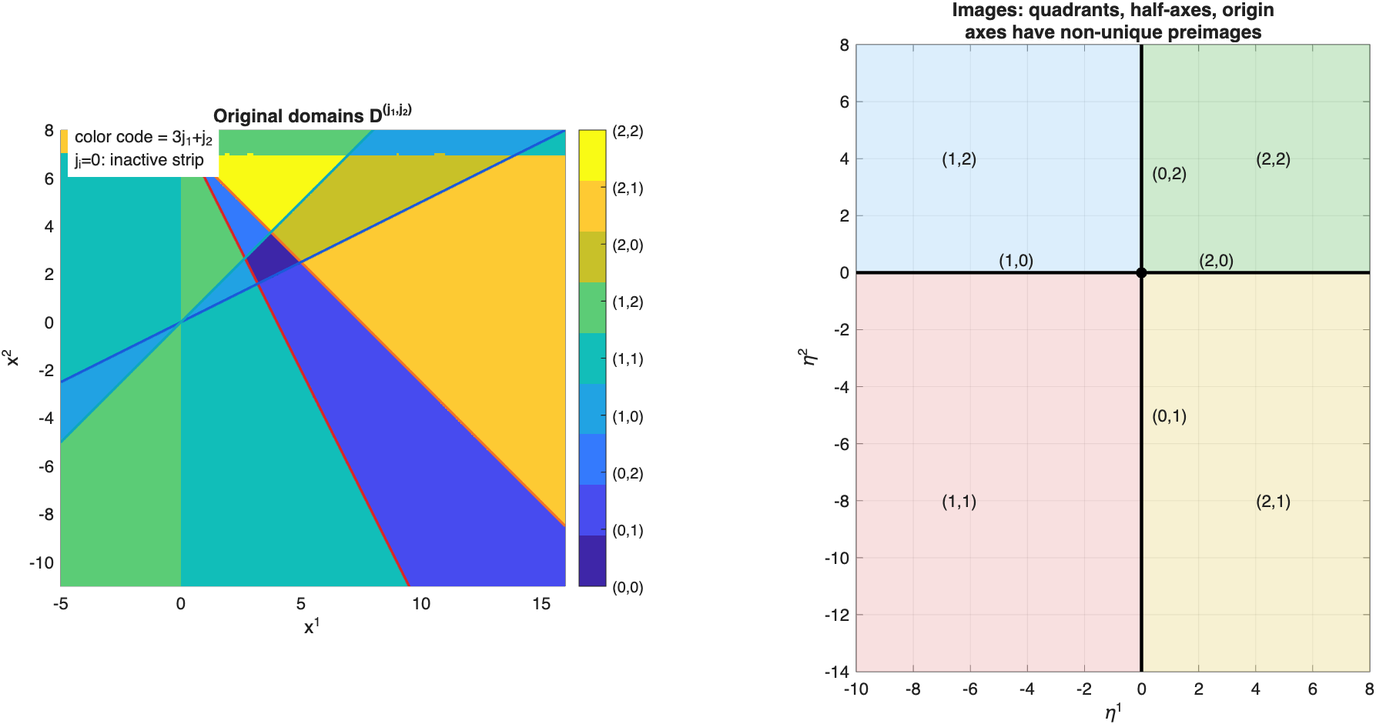
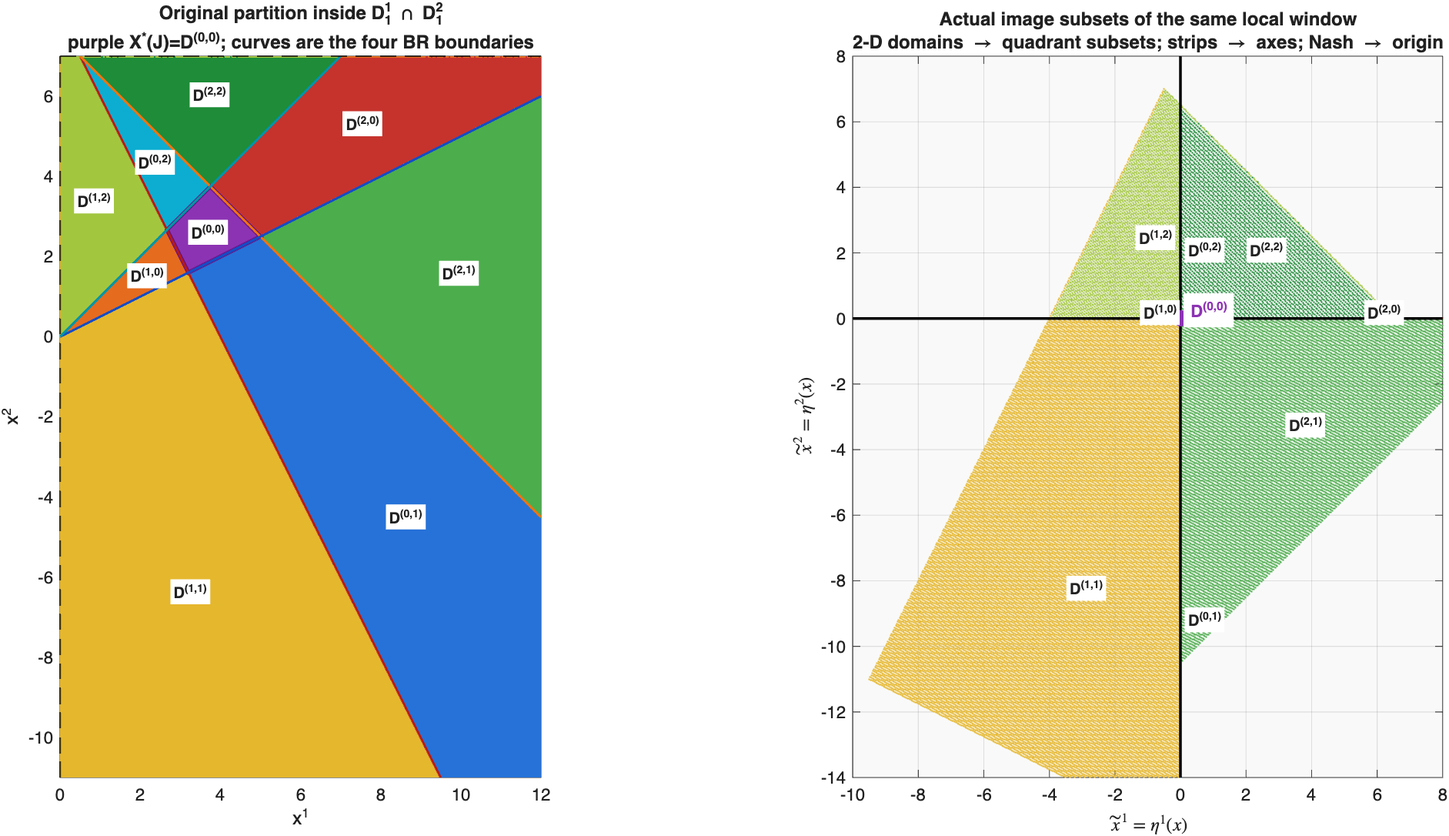
Refine X1 domain and fiber visualizations

diff --git a/experiments/run_x1_transformation_stability.m b/experiments/run_x1_transformation_stability.m
@@ -54,6 +54,7 @@ assert(branchCheck.passes && boundaryCheck.passes,'Branch or boundary checks fai
 Vimage = lyapunovValues(etaImage,certificate);
 Vz = lyapunovValues(z,certificate);
 plotDomainMap(game,fullfile(outputDir,'x1_domain_map.png'));
+plotFiberCollapse(game,fullfile(outputDir,'x1_fiber_collapse.png'));
 plotTrajectories(game,t,x,etaImage,z,run,certificate, ...
     fullfile(outputDir,'x1_trajectories_lyapunov.png'));
 writeTrajectories(fullfile(outputDir,'x1_trajectories.csv'), ...
@@ -248,37 +249,115 @@ end
 end
 
 function plotDomainMap(game,path)
-fig=figure('Color','w','Visible','off','Position',[50,50,1350,600]);
-ax1=subplot(1,2,1,'Parent',fig); hold(ax1,'on'); axis(ax1,'equal'); box(ax1,'on');
-[X,Y]=meshgrid(linspace(-5,16,230),linspace(-11,8,210)); C=zeros(size(X));
-for k=1:numel(X), [~,s]=etaMap(game,[X(k);Y(k)]); C(k)=3*s(1)+s(2); end
-imagesc(ax1,X(1,:),Y(:,1),C); set(ax1,'YDir','normal'); colormap(ax1,parula(9));
-caxis(ax1,[0,8]); cb=colorbar(ax1); cb.Ticks=0:8;
-cb.TickLabels={'(0,0)','(0,1)','(0,2)','(1,0)','(1,1)','(1,2)','(2,0)','(2,1)','(2,2)'};
-xx=linspace(-5,16,400);
-colors={[.85,.15,.15],[.95,.45,.15],[.10,.35,.85],[.05,.65,.75]}; q=0;
-for i=1:2
-    for j=1:2
-        q=q+1; A=game.A{i,j}; b=game.b{i,j};
-        if i==1, yy=-(A(1,1)*xx+b(1))/A(1,2); else, yy=-(A(2,1)*xx+b(2))/A(2,2); end
-        plot(ax1,xx,yy,'Color',colors{q},'LineWidth',1.5);
+fig=figure('Color','w','Visible','off','Position',[40,40,1500,690]);
+palette=domainPalette(); xBounds=[0,12]; yBounds=[-11,7];
+[X,Y]=meshgrid(linspace(xBounds(1),xBounds(2),300),linspace(yBounds(1),yBounds(2),300));
+C=zeros(size(X)); E=zeros(numel(X),2);
+for k=1:numel(X)
+    [e,s]=etaMap(game,[X(k);Y(k)]); C(k)=3*s(1)+s(2); E(k,:)=e;
+end
+
+ax1=subplot(1,2,1,'Parent',fig);hold(ax1,'on');axis(ax1,'equal');box(ax1,'on');
+imagesc(ax1,X(1,:),Y(:,1),C);set(ax1,'YDir','normal');colormap(ax1,palette);caxis(ax1,[-.5,8.5]);
+plotGameGeometry(ax1,game,xBounds,yBounds,true);
+for code=0:8
+    mask=C==code;
+    if any(mask(:))
+        text(ax1,median(X(mask)),median(Y(mask)),domainLabel(code), ...
+            'HorizontalAlignment','center','FontWeight','bold','FontSize',9, ...
+            'BackgroundColor','w','Margin',1);
     end
 end
-xlim(ax1,[-5,16]);ylim(ax1,[-11,8]);grid(ax1,'on');
-xlabel(ax1,'x^1');ylabel(ax1,'x^2');title(ax1,'Original domains D^{(j_1,j_2)}');
-text(ax1,-4.5,7.2,{'color code = 3j_1+j_2','j_i=0: inactive strip'},'BackgroundColor','w');
+xlim(ax1,xBounds);ylim(ax1,yBounds);grid(ax1,'on');
+xlabel(ax1,'x^1');ylabel(ax1,'x^2');
+title(ax1,{'Original partition inside D_1^1 \cap D_1^2', ...
+    'purple X^*(J)=D^{(0,0)}; curves are the four BR boundaries'});
 
-ax2=subplot(1,2,2,'Parent',fig); hold(ax2,'on');axis(ax2,'equal');box(ax2,'on');grid(ax2,'on');
-patch(ax2,[0,8,8,0],[0,0,8,8],[.65,.85,.65],'FaceAlpha',.55,'EdgeColor','none');
-patch(ax2,[-10,0,0,-10],[0,0,8,8],[.75,.88,.98],'FaceAlpha',.55,'EdgeColor','none');
-patch(ax2,[-10,0,0,-10],[-14,-14,0,0],[.95,.78,.78],'FaceAlpha',.55,'EdgeColor','none');
-patch(ax2,[0,8,8,0],[-14,-14,0,0],[.94,.90,.68],'FaceAlpha',.55,'EdgeColor','none');
-plot(ax2,[-10,8],[0,0],'k-','LineWidth',2);plot(ax2,[0,0],[-14,8],'k-','LineWidth',2);
-plot(ax2,0,0,'ko','MarkerFaceColor','k');
-text(ax2,-7,-8,'(1,1)');text(ax2,-7,4,'(1,2)');text(ax2,4,-8,'(2,1)');text(ax2,4,4,'(2,2)');
-text(ax2,2,.45,'(2,0)');text(ax2,-5,.45,'(1,0)');text(ax2,.35,3.5,'(0,2)');text(ax2,.35,-5,'(0,1)');
-xlim(ax2,[-10,8]);ylim(ax2,[-14,8]);xlabel(ax2,'\eta^1');ylabel(ax2,'\eta^2');
-title(ax2,{'Images: quadrants, half-axes, origin','axes have non-unique preimages'});
+ax2=subplot(1,2,2,'Parent',fig);hold(ax2,'on');axis(ax2,'equal');box(ax2,'on');grid(ax2,'on');
+% The pale backgrounds indicate signs only.  Colored samples are the actual
+% images of the finite original-space window; no full quadrant is claimed.
+patch(ax2,[0,8,8,0],[0,0,8,8],[.88,.88,.88],'FaceAlpha',.18,'EdgeColor','none');
+patch(ax2,[-10,0,0,-10],[0,0,8,8],[.88,.88,.88],'FaceAlpha',.18,'EdgeColor','none');
+patch(ax2,[-10,0,0,-10],[-14,-14,0,0],[.88,.88,.88],'FaceAlpha',.18,'EdgeColor','none');
+patch(ax2,[0,8,8,0],[-14,-14,0,0],[.88,.88,.88],'FaceAlpha',.18,'EdgeColor','none');
+for code=[4,5,7,8,1,2,3,6]
+    mask=C(:)==code;
+    scatter(ax2,E(mask,1),E(mask,2),5,palette(code+1,:),'.');
+end
+plot(ax2,[-10,8],[0,0],'k-','LineWidth',1.6);plot(ax2,[0,0],[-14,8],'k-','LineWidth',1.6);
+plot(ax2,0,0,'o','Color',palette(1,:),'MarkerFaceColor',palette(1,:),'MarkerSize',9);
+for code=1:8
+    mask=C(:)==code;
+    if any(mask)
+        p=median(E(mask,:),1); offset=.18*[sign(p(1)+(p(1)==0)),sign(p(2)+(p(2)==0))];
+        text(ax2,p(1)+offset(1),p(2)+offset(2),domainLabel(code), ...
+            'FontWeight','bold','FontSize',9,'BackgroundColor','w','Margin',1);
+    end
+end
+text(ax2,.25,.25,'D^{(0,0)}','FontWeight','bold','Color',palette(1,:),'BackgroundColor','w');
+xlim(ax2,[-10,8]);ylim(ax2,[-14,8]);
+xlabel(ax2,'$\tilde{x}^1=\eta^1(x)$','Interpreter','latex');
+ylabel(ax2,'$\tilde{x}^2=\eta^2(x)$','Interpreter','latex');
+title(ax2,{'Actual image subsets of the same local window', ...
+    '2-D domains \rightarrow quadrant subsets; strips \rightarrow axes; Nash \rightarrow origin'});
+exportgraphics(fig,path,'Resolution',160);close(fig);
+end
+
+function plotFiberCollapse(game,path)
+fig=figure('Color','w','Visible','off','Position',[40,40,1500,650]);
+palette=domainPalette(); xBounds=[0,12]; yBounds=[-11,7]; targets=[1,0;2,0;0,1;0,2];
+[X,Y]=meshgrid(linspace(xBounds(1),xBounds(2),260),linspace(yBounds(1),yBounds(2),260));
+kappa=zeros(4,1);
+for q=1:4
+    vals=[];
+    for k=1:numel(X)
+        [e,s]=etaMap(game,[X(k);Y(k)]);
+        if all(s==targets(q,:)), vals(end+1)=e(1+(targets(q,1)==0)); end %#ok<AGROW>
+    end
+    vals=sort(vals);kappa(q)=vals(max(1,round(.55*numel(vals))));
+end
+
+ax1=subplot(1,2,1,'Parent',fig);hold(ax1,'on');axis(ax1,'equal');box(ax1,'on');grid(ax1,'on');
+plotGameGeometry(ax1,game,xBounds,yBounds,false);
+fiberHandles=gobjects(4,1);
+for q=1:4
+    [fx,fy]=fiberPoints(game,targets(q,:),kappa(q),xBounds,yBounds);
+    code=3*targets(q,1)+targets(q,2); col=palette(code+1,:);
+    fiberHandles(q)=plot(ax1,fx,fy,'-','Color',col,'LineWidth',4);
+    keep=find(isfinite(fx));
+    if ~isempty(keep)
+        marks=keep(round(linspace(1,numel(keep),min(6,numel(keep)))));
+        plot(ax1,fx(marks),fy(marks),'o','Color',col,'MarkerFaceColor','w','MarkerSize',5);
+    end
+end
+xlim(ax1,xBounds);ylim(ax1,yBounds);xlabel(ax1,'x^1');ylabel(ax1,'x^2');
+title(ax1,{'Representative rank-one fibers in the original space', ...
+    'multiple marked x values on each fiber have exactly the same image'});
+fiberLabels=cell(1,4);
+for q=1:4
+    fiberLabels{q}=sprintf('$D^{(%d,%d)}, %ckappa=%+.2f$', ...
+        targets(q,1),targets(q,2),char(92),kappa(q));
+end
+legend(fiberHandles,fiberLabels,'Interpreter','latex','Location','southwest');
+
+ax2=subplot(1,2,2,'Parent',fig);hold(ax2,'on');axis(ax2,'equal');box(ax2,'on');grid(ax2,'on');
+plot(ax2,[-10,8],[0,0],'k-','LineWidth',1.6);plot(ax2,[0,0],[-14,8],'k-','LineWidth',1.6);
+for q=1:4
+    code=3*targets(q,1)+targets(q,2); col=palette(code+1,:);
+    if targets(q,1)>0, p=[kappa(q),0]; else, p=[0,kappa(q)]; end
+    plot(ax2,p(1),p(2),'o','Color',col,'MarkerFaceColor',col,'MarkerSize',11);
+    dy=.25;if all(targets(q,:)==[1,0]),dy=.75;end
+    text(ax2,p(1)+.25,p(2)+dy,sprintf('$\\eta(L_{\\kappa}^{%d,%d})=(%+.2f,%+.2f)$', ...
+        targets(q,1),targets(q,2),p(1),p(2)),'Interpreter','latex', ...
+        'Color',col,'FontWeight','bold','BackgroundColor','w','HorizontalAlignment','left');
+end
+plot(ax2,0,0,'o','Color',palette(1,:),'MarkerFaceColor',palette(1,:),'MarkerSize',11);
+text(ax2,.25,-.65,'\eta(X^*(J))=(0,0)','Color',palette(1,:),'FontWeight','bold','BackgroundColor','w');
+xlim(ax2,[-10,12]);ylim(ax2,[-14,8]);
+xlabel(ax2,'$\tilde{x}^1=\eta^1(x)$','Interpreter','latex');
+ylabel(ax2,'$\tilde{x}^2=\eta^2(x)$','Interpreter','latex');
+title(ax2,{'Fibers collapse to single axis points', ...
+    'the inverse on an axis is set-valued; no representative is selected'});
 exportgraphics(fig,path,'Resolution',160);close(fig);
 end
 
@@ -287,23 +366,37 @@ fig=figure('Color','w','Visible','off','Position',[40,40,1500,880]);
 ax1=subplot(2,2,1,'Parent',fig);hold(ax1,'on');axis(ax1,'equal');box(ax1,'on');grid(ax1,'on');
 [X,Y]=meshgrid(linspace(-5,16,160),linspace(-11,8,150)); Z=zeros(size(X));
 for k=1:numel(X), e=etaMap(game,[X(k);Y(k)]); Z(k)=lyapunovValues(e,cert); end
+plotGameGeometry(ax1,game,[-5,16],[-11,8],false);
 contour(ax1,X,Y,Z,[5,20,50,100,200,400],'Color',[.45,.55,.45]);
 plot(ax1,x(:,1),x(:,2),'Color',[0,.45,.15],'LineWidth',2.2);
 plot(ax1,x(run(1):run(2),1),x(run(1):run(2),2),'Color',[.90,.25,.05],'LineWidth',3.0);
 plot(ax1,x(1,1),x(1,2),'ko','MarkerFaceColor','k');
+plot(ax1,x(run(1),1),x(run(1),2),'o','Color',[.90,.25,.05],'MarkerFaceColor','w','LineWidth',1.5);
+plot(ax1,x(run(2),1),x(run(2),2),'o','Color',[.90,.25,.05],'MarkerFaceColor',[.90,.25,.05]);
+text(ax1,x(run(1),1)+.25,x(run(1),2),'A','FontWeight','bold');
+text(ax1,x(run(2),1)+.25,x(run(2),2),'B','FontWeight','bold');
 xlim(ax1,[-5,16]);ylim(ax1,[-11,8]);xlabel(ax1,'x^1');ylabel(ax1,'x^2');
 title(ax1,{'(1) independently integrated original x(t)','contours: pullback V(\eta(x)) on original grid'});
 
 ax2=subplot(2,2,2,'Parent',fig);hold(ax2,'on');axis(ax2,'equal');box(ax2,'on');grid(ax2,'on');
 [E1,E2]=meshgrid(linspace(-10,8,180),linspace(-14,8,180)); G=[E1(:),E2(:)]; VG=lyapunovValues(G,cert);
-contour(ax2,E1,E2,reshape(VG,size(E1)),[5,20,50,100,200,400],'Color',[.45,.55,.45]);
-plot(ax2,etaImage(:,1),etaImage(:,2),'-','Color',[0,.45,.15],'LineWidth',2.3);
-plot(ax2,z(:,1),z(:,2),'--','Color',[.55,0,.75],'LineWidth',2.3);
-plot(ax2,etaImage(run(1):run(2),1),etaImage(run(1):run(2),2),'-','Color',[.90,.25,.05],'LineWidth',3);
-plot(ax2,etaImage(1,1),etaImage(1,2),'ko','MarkerFaceColor','k');
-xlim(ax2,[-10,8]);ylim(ax2,[-14,8]);xlabel(ax2,'\eta^1');ylabel(ax2,'\eta^2');
+[~,hContour]=contour(ax2,E1,E2,reshape(VG,size(E1)),[5,20,50,100,200,400],'Color',[.45,.55,.45]);
+plot(ax2,[-10,8],[0,0],'k-','LineWidth',1.2,'HandleVisibility','off');
+plot(ax2,[0,0],[-14,8],'k-','LineWidth',1.2,'HandleVisibility','off');
+hEta=plot(ax2,etaImage(:,1),etaImage(:,2),'-','Color',[0,.45,.15],'LineWidth',2.3);
+hZ=plot(ax2,z(:,1),z(:,2),'--','Color',[.55,0,.75],'LineWidth',2.3);
+hSegment=plot(ax2,etaImage(run(1):run(2),1),etaImage(run(1):run(2),2),'-','Color',[.90,.25,.05],'LineWidth',3);
+hInitial=plot(ax2,etaImage(1,1),etaImage(1,2),'ko','MarkerFaceColor','k');
+plot(ax2,etaImage(run(1),1),etaImage(run(1),2),'o','Color',[.90,.25,.05],'MarkerFaceColor','w','LineWidth',1.5);
+plot(ax2,etaImage(run(2),1),etaImage(run(2),2),'o','Color',[.90,.25,.05],'MarkerFaceColor',[.90,.25,.05]);
+text(ax2,etaImage(run(1),1)+.25,etaImage(run(1),2),'\eta(A)','FontWeight','bold');
+text(ax2,etaImage(run(2),1)+.25,etaImage(run(2),2),'\eta(B)','FontWeight','bold');
+xlim(ax2,[-10,8]);ylim(ax2,[-14,8]);
+xlabel(ax2,'$\tilde{x}^1$','Interpreter','latex');ylabel(ax2,'$\tilde{x}^2$','Interpreter','latex');
 title(ax2,{'(2) solid: pointwise image \eta(x(t))','(3) dashed: independently integrated transformed z(t)'});
-legend(ax2,{'V contours','\eta(x(t))','z(t) independent','mapped one-active segment','common initial value'},'Location','northeast');
+legend(ax2,[hContour,hEta,hZ,hSegment,hInitial], ...
+    {'V contours','\eta(x(t))','z(t) independent','mapped one-active segment','common initial value'}, ...
+    'Location','northeast');
 
 ax3=subplot(2,2,3,'Parent',fig);hold(ax3,'on');box(ax3,'on');grid(ax3,'on');
 plot(ax3,t,vecnorm(etaImage,2,2),'Color',[0,.45,.15],'LineWidth',1.7);
@@ -318,6 +411,65 @@ plot(ax4,t,lyapunovValues(z,cert),'--','Color',[.55,0,.75],'LineWidth',1.7);
 xlabel(ax4,'t');ylabel(ax4,'V');title(ax4,'Piecewise-quadratic certificate along both eta-space curves');
 legend(ax4,{'V(\eta(x(t)))','V(z(t)) independent'});
 exportgraphics(fig,path,'Resolution',160);close(fig);
+end
+
+function palette=domainPalette()
+% Codes are 3*j1+j2.  D^(0,0) is purple and all corresponding original/image
+% pieces retain the same color across the two mapping figures.
+palette=[.55,.20,.70; .15,.45,.85; .05,.68,.82; .90,.42,.12; ...
+         .90,.72,.18; .64,.78,.25; .78,.20,.18; .30,.68,.30; .12,.55,.22];
+end
+
+function label=domainLabel(code)
+j1=floor(code/3);j2=mod(code,3);label=sprintf('D^{(%d,%d)}',j1,j2);
+end
+
+function plotGameGeometry(ax,game,xBounds,yBounds,showAssumptionBoundary)
+% Draw the four own-gradient zero sets and the exact Nash polygon.
+verts=zeros(4,2); q=0;
+for j1=1:2
+    for j2=1:2
+        q=q+1;R=coordinateMatrix(game,j1,j2);
+        r=[game.b{1,j1}(1)/game.A{1,j1}(1,1);game.b{2,j2}(2)/game.A{2,j2}(2,2)];
+        verts(q,:)=(-R\r)';
+    end
+end
+h=convhull(verts(:,1),verts(:,2));
+palette=domainPalette();
+patch(ax,verts(h,1),verts(h,2),palette(1,:),'FaceAlpha',.50, ...
+    'EdgeColor',[.40,.08,.52],'LineWidth',2.4);
+xx=linspace(xBounds(1),xBounds(2),500); cols={[.72,.10,.10],[.95,.45,.05],[.08,.30,.78],[.00,.58,.65]};q=0;
+for i=1:2
+    for j=1:2
+        q=q+1;A=game.A{i,j};b=game.b{i,j};
+        if i==1, yy=-(A(1,1)*xx+b(1))/A(1,2);else, yy=-(A(2,1)*xx+b(2))/A(2,2);end
+        plot(ax,xx,yy,'Color',cols{q},'LineWidth',1.35);
+    end
+end
+if showAssumptionBoundary
+    xline(ax,0,'k--','LineWidth',1.0);yline(ax,7,'k--','LineWidth',1.0);
+end
+xlim(ax,xBounds);ylim(ax,yBounds);
+end
+
+function [fx,fy]=fiberPoints(game,target,kappa,xBounds,yBounds)
+t=linspace(0,1,700);fx=nan(size(t));fy=nan(size(t));
+if target(1)>0
+    row=game.A{1,target(1)}(1,:)/game.A{1,target(1)}(1,1);
+    r=game.b{1,target(1)}(1)/game.A{1,target(1)}(1,1);
+    fy=yBounds(1)+(yBounds(2)-yBounds(1))*t;fx=(kappa-r-row(2)*fy)/row(1);
+else
+    row=game.A{2,target(2)}(2,:)/game.A{2,target(2)}(2,2);
+    r=game.b{2,target(2)}(2)/game.A{2,target(2)}(2,2);
+    fx=xBounds(1)+(xBounds(2)-xBounds(1))*t;fy=(kappa-r-row(1)*fx)/row(2);
+end
+for k=1:numel(t)
+    if fx(k)<xBounds(1)||fx(k)>xBounds(2)||fy(k)<yBounds(1)||fy(k)>yBounds(2)
+        fx(k)=nan;fy(k)=nan;continue
+    end
+    [~,s]=etaMap(game,[fx(k);fy(k)]);
+    if any(s~=target),fx(k)=nan;fy(k)=nan;end
+end
 end
 
 function writeTrajectories(path,t,x,e,z,b,sep,Ve,Vz)

diff --git a/audit/implementation/X1.md b/audit/implementation/X1.md
@@ -60,17 +60,25 @@ domain map is:
 
 | original domain | transformed image |
 |---|---|
-| `D^(1,1)` | negative/negative quadrant |
-| `D^(1,2)` | negative/positive quadrant |
-| `D^(2,1)` | positive/negative quadrant |
-| `D^(2,2)` | positive/positive quadrant |
+| `D^(1,1)` | subset of the negative/negative quadrant |
+| `D^(1,2)` | subset of the negative/positive quadrant |
+| `D^(2,1)` | subset of the positive/negative quadrant |
+| `D^(2,2)` | subset of the positive/positive quadrant |
 | `D^(1,0)`, `D^(2,0)` | negative and positive `eta^1` half-axes |
 | `D^(0,1)`, `D^(0,2)` | negative and positive `eta^2` half-axes |
 | `D^(0,0)=X*(J)` | origin |
 
-The first X1 figure displays the nine original domains beside these four
-quadrants, four half-axes, and the origin. A full-active-grid check found 3,505
-points inside this assumed sign/objective correspondence and obtained a zero
+The first X1 figure follows the visual logic of IFAC Figure 5 while using the
+verified X1 parameters: it directly labels the purple Nash region and all eight
+surrounding domains, retains the four BR boundaries, and uses the same domain
+colors for their actual images in `(tilde x^1,tilde x^2)`. The light quadrant
+backgrounds indicate signs only. The colored two-dimensional sets are sampled
+images of the displayed local original window; they are not assertions that a
+domain fills an entire quadrant. Axis strips and the origin are overlaid after
+the two-dimensional samples so their dimension loss remains visible.
+
+A full-active-grid check found 3,505 points inside this assumed
+sign/objective correspondence and obtained a zero
 chain-rule residual between `D eta(x) f(x)` and the selected transformed branch.
 Another 1,876 full-active points in the large plotting box lie outside that
 local sign map and were deliberately not used to claim a global quadrant
@@ -78,8 +86,12 @@ correspondence. This is an assumption boundary, not a numerical failure.
 
 The restrictions to one-active original domains have rank one. Every point of a
 line segment parallel to the relevant BR can therefore have the same point on a
-transformed axis. The code never calls `testfun3_3` and never returns an arbitrary
-original representative for an axis point.
+transformed axis. The separate fiber figure makes this loss explicit with four
+representative level fibers: several marked original points on each colored
+fiber have one common axis image, while the full purple Nash region has the
+single image `(0,0)`. Every arrow of interpretation is forward. The code never
+calls `testfun3_3` and never returns an arbitrary original representative for an
+axis point.
 
 ## 4. Printed certificate checked before integration
 
@@ -184,7 +196,8 @@ cases, to full-active points outside the assumed sign map, or to the separate
   `audit/evidence/x1_certificate_margins.csv`.
 - MATLAB runtime record and hashes: `audit/evidence/x1_matlab_run.json`.
 - Committed MATLAB figures:
-  `audit/implementation/figures/X1_domain_map.png` and
+  `audit/implementation/figures/X1_domain_map.png`,
+  `audit/implementation/figures/X1_fiber_collapse.png`, and
   `audit/implementation/figures/X1_trajectories_lyapunov.png`.
 - Ignored full-resolution runtime data: `results/x1/x1_report.mat` and
   `results/x1/x1_trajectories.csv`.
@@ -192,6 +205,9 @@ cases, to full-active points outside the assumed sign map, or to the separate
 | acceptance item | result |
 |---|---|
 | original domains mapped to quadrants/axes/origin | pass |
+| Nash region and all eight surrounding domains labeled directly | pass |
+| full-active images shown as actual local subsets, not whole quadrants | pass |
+| rank-one fibers visibly collapse to axis points without an inverse choice | pass |
 | original `x(t)` integrated and labeled | pass |
 | pointwise `eta(x(t))` labeled as an image only | pass |
 | transformed `z(t)` independently integrated | pass |

diff --git a/PROJECT_STATE.md b/PROJECT_STATE.md
@@ -2,12 +2,12 @@
 
 ## 当前阶段
 
-2026-09-18：X1坍缩变换与稳定性已完成实现、两张证据图、独立核查及MATLAB R2025b batch复跑。原轨迹`x(t)`、逐点像`eta(x(t))`与从`eta(x0)`独立积分的变换轨迹均已分开保存；论文给定证书先验算通过，无需求新证书。I1、P1与S1此前亦已完成。
+2026-09-18：X1坍缩变换与稳定性已完成实现、三张证据图、独立核查及MATLAB R2025b batch复跑。原轨迹`x(t)`、逐点像`eta(x(t))`与从`eta(x0)`独立积分的变换轨迹均已分开保存；论文给定证书先验算通过，无需求新证书。I1、P1与S1此前亦已完成。
 
 ## 最新完成
 
 - X1按论文(50)–(51)自含补足缺失`testfun3`；原系统与变换系统各自用RK4积分，`eta(x(t))`只作逐点映射，未用插值或映射代替独立解。
-- 原空间九域到四象限、四半轴和原点的对应已成图；首个`D^(0,1)`区段在MATLAB为`[.047,.174]`，两轨迹从此分离。轴上逆像保持未定义/集合值，不调用旧`testfun3_3`任选一点。
+- 原空间紫色Nash域及八个周围域到象限子集、四半轴和原点的对应已直接标注；另图显示四条秩一纤维各自坍缩到一个轴点。首个`D^(0,1)`区段在MATLAB为`[.047,.174]`，两轨迹从此分离。轴上逆像保持未定义/集合值，不调用旧`testfun3_3`任选一点。
 - 论文四舍五入`T`在四分支均有严格裕量：最弱衰减`12.6690660020`、最弱正性`2.2440811913`；`U/W`逐元素非负，故未求新证书。原网格拉回`V(eta(x))`、变换等高线及两轨迹上的V均已输出。
 - 论文给定参数直接算得`eta(x0)=(-2.5,-13.25)`而非正文`(-2.5,-13.5)`；图6 A到B的像范数也由`8.3005`降至`2.3310`，与正文不等号方向相反。两项均记录为不影响证书的最小来源差异。
 - X1结合S1明确区分：active-cone正特征值见证的系统不稳定、充分条件无法使用、以及非双射压缩造成的信息丢失，三者不能互相替代。
@@ -20,7 +20,7 @@
 
 不要求参数/画法复刻；须保留主要数学内容及case区别。原型和旧case代码是参考而非基线。缺原图脚本可自主构造并记录。有限网格/测试通过不等于定理证明或内容完整。网站尚未发布，当前不设计公共API、不自动创建session、不使用subagent。
 
-MATLAB不在shell的`PATH`中，但已定位并成功调用`/Applications/MATLAB_R2025b.app/bin/matlab`。X1、I1、P1与S1均运行通过。X1两张、I1四张、S1两张提交图均为MATLAB实际输出；X1的独立Python核查不是MATLAB证据或定理证明，P1 trap的逐时弱性质仍是有限网格证据。
+MATLAB不在shell的`PATH`中，但已定位并成功调用`/Applications/MATLAB_R2025b.app/bin/matlab`。X1、I1、P1与S1均运行通过。X1三张、I1四张、S1两张提交图均为MATLAB实际输出；X1的独立Python核查不是MATLAB证据或定理证明，P1 trap的逐时弱性质仍是有限网格证据。
 
 ## 当前阻碍
 

diff --git a/audit/FIGURE_MANIFEST.md b/audit/FIGURE_MANIFEST.md
@@ -57,8 +57,8 @@
 | E2 p7，a–e | x1-x2，分别两agent sign/BR排序区域及交集9域；比较单agent停滞strip如何组合 | E分区定义；2023脚本相关但不完整对应 | 无 | 支撑；候选与T3.1合并，保留各层区域图 |
 | E3 p8，a/b | 二维局部线性场/锥、eigenvectors；stable vs saddle | E局部论证，未给完整同图数值入口 | branchLinearization计算可参考，无图 | 支撑；非首选；保留稳定/不稳定两类，不把saddle全部删除 |
 | E4 p8 | 域节点/有向边的transition diagram，无数值坐标；比较允许与不允许的域转换 | 论文区域关系，无脚本 | 无 | 支撑；非首选；作为文档关系图重绘 |
-| E5 p10 | 原x1-x2分区 vs 变换z1-z2象限/轴/原点；比较2D域、strip、Nash不同维数坍缩 | X1已按(43)/(49)完成九域与四象限/四半轴/原点并列图；轴上不返回任意逆像 | 旧原型只有函数且会择一逆像，X1未复用 | **核心机制**；X1完成，见`X1_domain_map.png`；明确非双射、秩一纤维和局部假设域 |
-| E6 p12，a/b | a:原x1-x2、BR/Nash、原轨迹与拉回Lyapunov等高线；b:z1-z2中η(x(t))实线 vs独立tilde x(t)虚线、A分离点/A→B区段、V等高线 | X1由自含入口分别积分原/变换ODE并逐点映射；MATLAB首分离`t=.047`、A-B为`[.047,.174]`；给定T严格证书先验算通过，原网格拉回已绘制 | 旧原型缺独立比较/完整拉回，X1已补齐 | **核心**；X1实现完成，见`X1_trajectories_lyapunov.png`；三对象来源和范数/V边界分开 |
+| E5 p10 | 原x1-x2分区 vs 变换z1-z2象限/轴/原点；比较2D域、strip、Nash不同维数坍缩 | X1已按(43)/(49)直接标出紫色Nash域和八个周围域；右图只画局部窗口的实际像子集，不把象限符号对应误画成满象限；另以四条代表纤维显示strip到轴点的多对一坍缩 | 旧原型只有函数且会择一逆像，X1未复用 | **核心机制**；见`X1_domain_map.png`与`X1_fiber_collapse.png`；轴逆像保持集合值，明确局部假设域 |
+| E6 p12，a/b | a:原x1-x2、BR/Nash、原轨迹与拉回Lyapunov等高线；b:z1-z2中η(x(t))实线 vs独立tilde x(t)虚线、A分离点/A→B区段、V等高线 | X1由自含入口分别积分原/变换ODE并逐点映射；MATLAB首分离`t=.047`、A-B为`[.047,.174]`；给定T严格证书先验算通过；原图叠加BR、紫色Nash域、A/B及原网格拉回 | 旧原型缺独立比较/完整拉回，X1已补齐 | **核心**；见`X1_trajectories_lyapunov.png`；三对象来源和范数/V边界分开 |
 
 ## 6. 无独立图号的实验、旧代码补充与表
 

diff --git a/DECISIONS.md b/DECISIONS.md
@@ -63,3 +63,4 @@
 | D30 | 轴上逆像保持集合值/未定义，不调用`testfun3_3`返回任意点；独立变换ODE仅给出显式前向轴规则`z_i<=0`选objective 1 | E(49)秩一说明；legacy轴上错误归零 | X1 branch/boundary检查 | 任何后续原空间回拉必须保留整条纤维或明确额外选择条件 | 论文＋源码核查 |
 | D31 | 先按论文四舍五入`T`直接核验(58)–(60)；四分支严格裕量充足，故不运行旧YALMIP脚本也不求新证书 | E Proposition3/SectionV；独立与MATLAB特征值 | X1 Lyapunov图/裕量表 | 证书为给定证书验证，不冒充重新求解；`U/W`要求逐元素非负而非PSD | 论文＋独立计算＋MATLAB运行 |
 | D32 | 变换法适用限于论文假设和局部符号/域对应；系统不稳定、充分条件不适用、非双射信息丢失分别表述 | AUTHOR_REVIEW Q5；S1 Case5；X1网格/轨迹 | S1/X1/R1展示 | 不用坐标像的收敛抹去active-cone不稳定，也不用求证失败证明不稳定 | 作者要求＋论文＋运行证据 |
+| D33 | X1映射图按IFAC Fig5的关系重画但使用已核验参数：原域/Nash直接标注，变换侧只画局部窗口实际像子集；另图以完整纤维到轴点表达多对一，不画轴点到任意原点的逆箭头 | 作者可视化建议；E Fig5–6；E(49)秩一结论 | X1三张提交图 | 后续不得用整象限填色暗示满射，也不得用代表逆像掩盖信息丢失 | 作者建议＋论文＋MATLAB视觉核查 |

diff --git a/IMPLEMENTATION_PLAN.md b/IMPLEMENTATION_PLAN.md
@@ -92,7 +92,7 @@
 
 **读入**：E2–6、(27)/(28)/(50)/(58)–(62)；L ifac_extention及ecc2026（参数分开）；P transformedBranch和verifyLyapunovCertificate仅供审查。
 
-**工作**：原空间域→象限/轴/原点图；分别得到x(t)、η(x(t))、独立积分tilde x(t)，并标识分离区段。不得通过插值η(x(t))伪装独立解，也不得在无唯一逆的轴上返回任意点。展示给定T的四分支严格证书裕量、原网格上的V(η(x))拉回。先验算给定证书，再按需要求新证书；缺testfun3需依据论文补足，不靠工作区残留。
+**工作**：原空间域→象限子集/轴/原点图，直接标出Nash域和八个周围域；另以代表秩一纤维显示整段原空间点如何坍缩到轴点，不画任意逆像；分别得到x(t)、η(x(t))、独立积分tilde x(t)，并标识分离区段。不得通过插值η(x(t))伪装独立解，也不得在无唯一逆的轴上返回任意点。展示给定T的四分支严格证书裕量、原网格上的V(η(x))拉回。先验算给定证书，再按需要求新证书；缺testfun3需依据论文补足，不靠工作区残留。
 
 **验收**：三种轨迹来源独立标清；branch一致性/轴/tie行为记录；U/W逐元素非负与严格裕量检查；范数暂增、稳定性和Lyapunov下降不能混称。与S1联系说明方法假设和非双射信息损失，不拿“求解器没找到证书”作为不稳定证明。
 

diff --git a/OPEN_QUESTIONS.md b/OPEN_QUESTIONS.md
@@ -50,7 +50,7 @@
 
 ## X1 — 已完成；保留两处最小纸面差异
 
-- 已完成：原域到象限/轴/原点、三种轨迹、A到B分离区段、论文给定证书四分支裕量、Lyapunov等高线和原网格拉回均见`audit/implementation/X1.md`；MATLAB R2025b与独立RK4核查均通过。
+- 已完成：紫色Nash域和八个周围域到实际象限子集/轴/原点、四条代表纤维到轴点、三种轨迹、A到B分离区段、论文给定证书四分支裕量、Lyapunov等高线和原网格拉回均见`audit/implementation/X1.md`；MATLAB R2025b与独立RK4核查均通过。
 - 纸面差异1：按论文展示参数和`x0=(6.5,-10)`直接计算为`eta(x0)=(-2.5,-13.25)`，正文写`(-2.5,-13.5)`。实现使用前者，未静默替换。
 - 纸面差异2：Figure 6标注的A到B轴段上，MATLAB和独立核查均得到像范数从约`8.30`降到`2.33`；正文写`||eta(x_A)||<||eta(x_B)||`，不等号方向与图/计算相反。
 - 处置：两处均不影响(58)–(60)证书、三轨迹分离事实或稳定性充分条件；作为最小来源问题保留，不升级为研究结论错误，也不阻塞T1/S2/R1。
